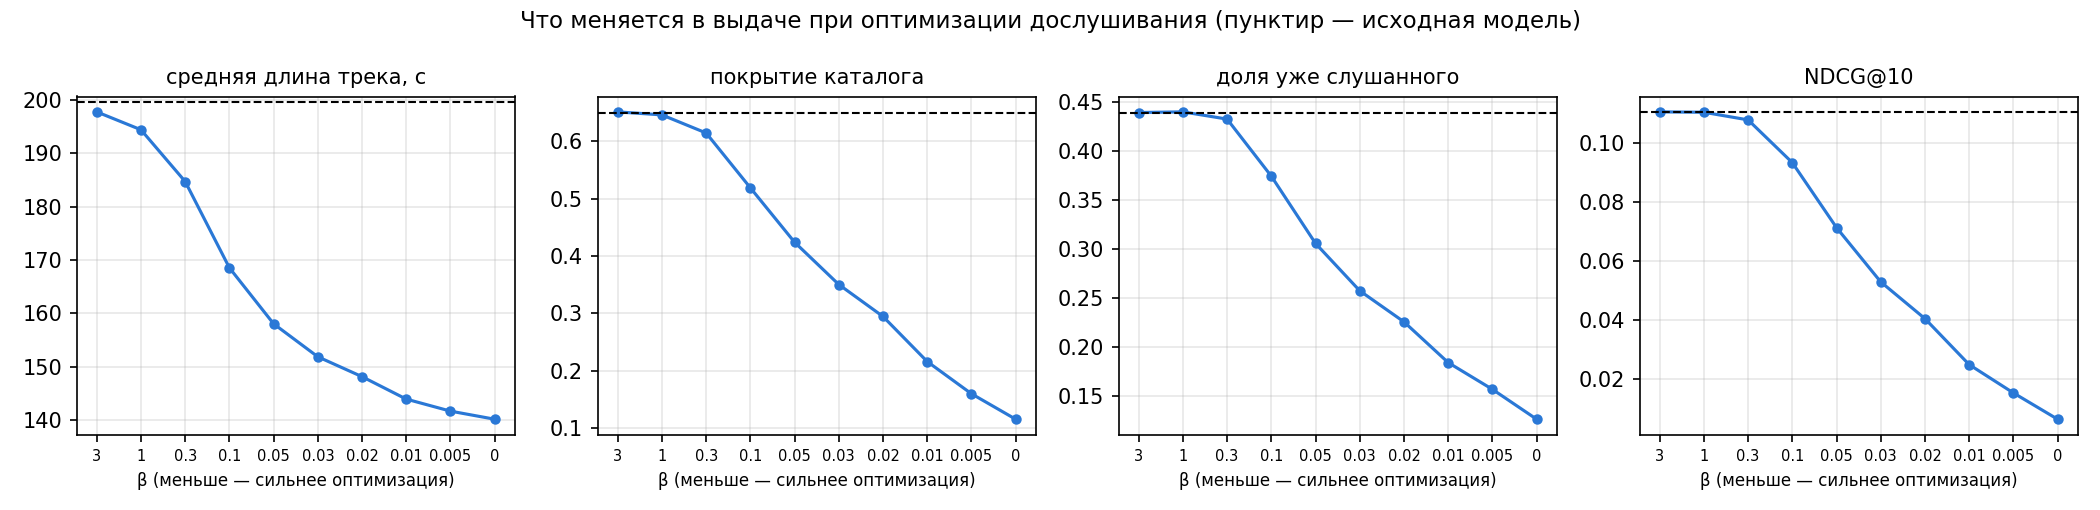
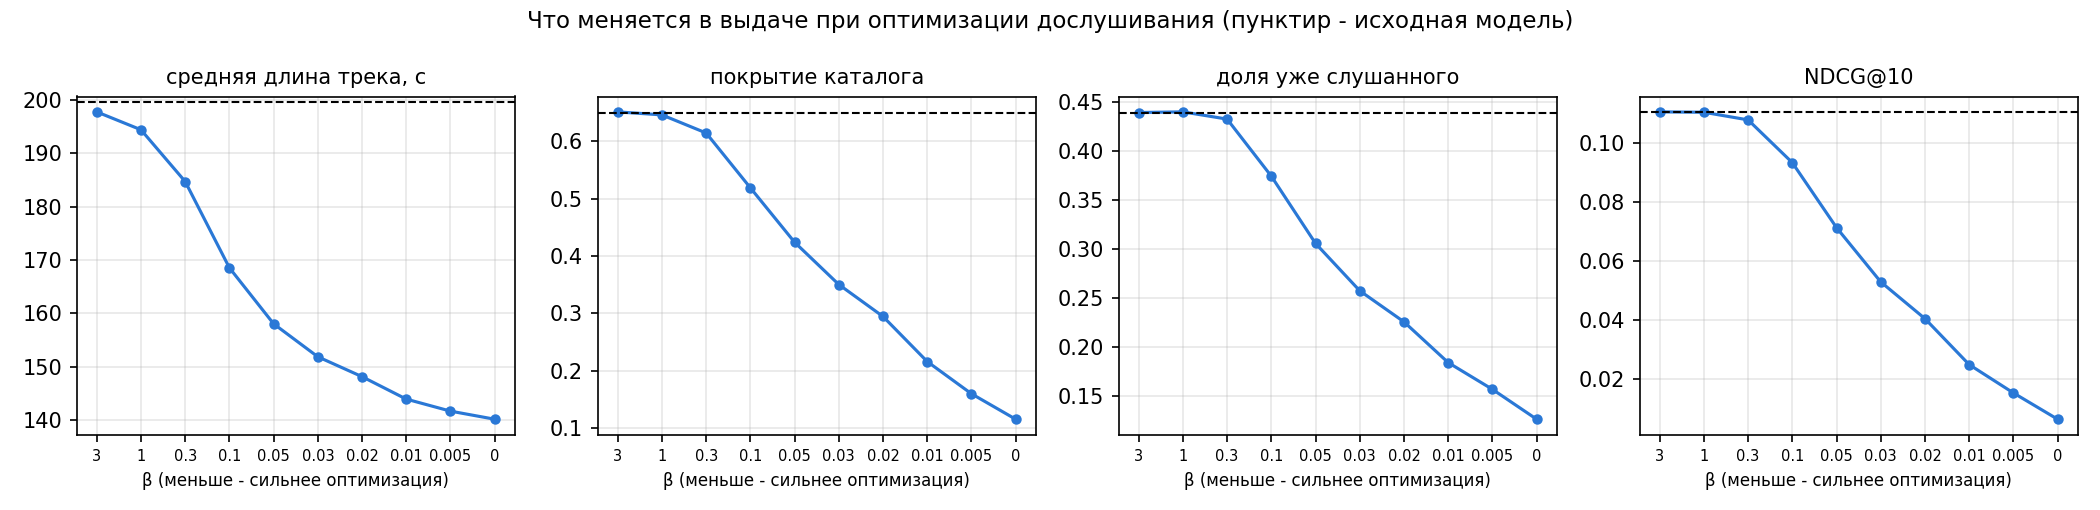
Plain typography in docs, code comments and plot labels

diff --git a/src/analysis.py b/src/analysis.py
@@ -1,13 +1,13 @@
 """Шаг 4: сводный анализ.
 
-1. Аналитический оптимум. Для одного шага задача «max E_π[r] − β·KL(π || π_ref)» решается в
-   закрытом виде: π*(a) ∝ π_ref(a)·exp(r(a)/β). Значит, оптимальную RL-политику можно получить
-   без обучения — переранжировать кандидатов исходной модели по log π_ref + r/β. Берём топ-500 исходной
+1. Аналитический оптимум. Для одного шага задача 'max E_π[r] - β*KL(π || π_ref)' решается в
+   закрытом виде: π*(a) ~ π_ref(a)*exp(r(a)/β). Значит, оптимальную RL-политику можно получить
+   без обучения - переранжировать кандидатов исходной модели по log π_ref + r/β. Берём топ-500 исходной
    модели (за ними почти нулевая вероятность) и проходим по сетке β: получаем полную кривую
-   «релевантность ↔ награда» для каждой функции награды и опорную точку для GRPO.
+   компромисса между релевантностью и наградой для каждой функции награды и опорную точку для GRPO.
 2. Таблица всех RL-прогонов с парными бутстрап-интервалами NDCG@10 к исходной модели.
 3. Проверка на реальных откликах: среди рекомендованных треков, которые юзер реально послушал в
-   следующих 10 прослушиваниях, — реальная доля дослушивания и доля лайков. Это единственная метрика
+   следующих 10 прослушиваниях, - реальная доля дослушивания и доля лайков. Это единственная метрика
    награды, которая не зависит от reward model.
 
     python src/analysis.py
@@ -120,7 +120,7 @@ def plot(analytic_res, rl_rows, base):
         for rw in ["ratio", "ratio_norep"]:
             c = analytic_res[rw]
             ax.plot([r["NDCG@10"] for r in c], [r[f"{judge}: дослушивание"] for r in c], "-o", ms=3,
-                    color=colors[rw], alpha=0.8, label=f"оптимум π_ref·exp(r/β), награда {rw}")
+                    color=colors[rw], alpha=0.8, label=f"оптимум π_ref*exp(r/β), награда {rw}")
         for name, r in rl_rows.items():
             a = r["args"]
             if a["horizon"] != 1 or a["reward"] not in ("ratio", "ratio_norep"):
@@ -139,7 +139,7 @@ def plot(analytic_res, rl_rows, base):
                      else "по независимой reward model B", fontsize=10)
         ax.grid(alpha=0.3)
     axes[0].legend(fontsize=7, loc="lower left")
-    fig.suptitle("Компромисс релевантность ↔ награда «дослушивание»", fontsize=11)
+    fig.suptitle("Компромисс между релевантностью и наградой (награда: дослушивание)", fontsize=11)
     fig.tight_layout()
     fig.savefig(OUT / "tradeoff.png", dpi=150)
     plt.close(fig)
@@ -153,10 +153,10 @@ def plot(analytic_res, rl_rows, base):
         ax.plot(x, [r[key] for r in c], "-o", color=colors["ratio"], ms=4)
         ax.axhline(base[key], color="k", ls="--", lw=1)
         ax.set_xticks(x, [f"{r['beta']:g}" for r in c], fontsize=7)
-        ax.set_xlabel("β (меньше — сильнее оптимизация)", fontsize=8)
+        ax.set_xlabel("β (меньше - сильнее оптимизация)", fontsize=8)
         ax.set_title(title, fontsize=10)
         ax.grid(alpha=0.3)
-    fig.suptitle("Что меняется в выдаче при оптимизации дослушивания (пунктир — исходная модель)", fontsize=11)
+    fig.suptitle("Что меняется в выдаче при оптимизации дослушивания (пунктир - исходная модель)", fontsize=11)
     fig.tight_layout()
     fig.savefig(OUT / "behaviour.png", dpi=150)
     plt.close(fig)
@@ -164,7 +164,7 @@ def plot(analytic_res, rl_rows, base):
     # 3. предсказание reward model против реальности
     fig, axes = plt.subplots(1, 2, figsize=(11, 4))
     for ax, (rw, pkey, rkey, title) in zip(axes, [
-            ("like", "A: лайк", REAL_L, "награда «лайк»"), ("ratio", "A: дослушивание", REAL_R, "награда «дослушивание»")]):
+            ("like", "A: лайк", REAL_L, "награда: лайк"), ("ratio", "A: дослушивание", REAL_R, "награда: дослушивание")]):
         c = [r for r in analytic_res[rw] if r["beta"] is not None and r[REAL_N] > 0.2]
         rel = lambda v, v0: v / v0 - 1
         ax.plot([r["beta"] for r in c], [rel(r[pkey], base[pkey]) * 100 for r in c], "-o", ms=4, color="#2a78d6",
@@ -176,7 +176,7 @@ def plot(analytic_res, rl_rows, base):
         ax.set_xscale("log")
         ax.invert_xaxis()
         ax.axhline(0, color="k", lw=1)
-        ax.set_xlabel("β (вправо — сильнее оптимизация)")
+        ax.set_xlabel("β (вправо - сильнее оптимизация)")
         ax.set_ylabel("изменение к исходной модели, %")
         ax.set_title(title, fontsize=10)
         ax.grid(alpha=0.3)

diff --git a/src/rl_grpo.py b/src/rl_grpo.py
@@ -1,22 +1,22 @@
 """Шаг 3: RL-дообучение GPT-2 методом GRPO с KL-штрафом к исходной модели.
 
 Для каждого контекста (история юзера из train-периода) политика сэмплирует G треков, reward model A
-оценивает каждый, преимущество = (r − среднее по группе) / std по группе, и логарифм вероятности
-трека умножается на это преимущество (как в GRPO, без отдельного критика). Штраф β·KL(π || π_ref)
-считается точно по всему словарю: действие — один трек, распределение известно целиком.
+оценивает каждый, преимущество = (r - среднее по группе) / std по группе, и логарифм вероятности
+трека умножается на это преимущество (как в GRPO, без отдельного критика). Штраф β*KL(π || π_ref)
+считается точно по всему словарю: действие - один трек, распределение известно целиком.
 
 При --horizon H > 1 политика генерирует H треков подряд, каждый раз дописывая сгенерированный трек
 в контекст. Доля дослушивания для дописанного трека в контексте reward model берётся из её же
-предсказания (юзер на самом деле ничего не слушал — это и есть «модельный» rollout).
-Награда последовательности — сумма наград шагов.
+предсказания (юзер на самом деле ничего не слушал - это и есть 'модельный' rollout).
+Награда последовательности - сумма наград шагов.
 
 Варианты награды (--reward):
     ratio        ожидаемая доля дослушивания
-    time         ожидаемое время прослушивания: ratio × длина трека / средняя длина
+    time         ожидаемое время прослушивания: ratio x длина трека / средняя длина
     like         вероятность лайка
-    ratio_like   ratio + 20·like (20 ≈ отношение средних, вклад сопоставимый)
+    ratio_like   ratio + 20*like (20 ~ отношение средних, вклад сопоставимый)
     cont         вероятность, что юзер продолжит слушать (прокси удержания)
-    ratio_norep  ratio − 0.5 за трек, который уже есть в истории юзера
+    ratio_norep  ratio - 0.5 за трек, который уже есть в истории юзера
     ratio_ens    среднее ratio по reward models A и B (ансамбль против эксплуатации ошибок одной модели)
 
     python src/rl_grpo.py --reward ratio --beta 0.05
@@ -93,7 +93,7 @@ def main():
     ap.add_argument("--eval-every", type=int, default=500)
     ap.add_argument("--seed", type=int, default=0)
     ap.add_argument("--adv", choices=["group_std", "fixed"], default="group_std",
-                    help="group_std — как в GRPO: (r − среднее) / std группы; fixed — (r − среднее) / σ0, σ0 = std "
+                    help="group_std - как в GRPO: (r - среднее) / std группы; fixed - (r - среднее) / σ0, σ0 = std "
                          "наград на первом батче (как Dr. GRPO): масштаб не растёт, когда политика сужается")
     ap.add_argument("--tag", default="")
     args = ap.parse_args()
@@ -154,7 +154,7 @@ def main():
             prB = scB(scB.hidden(rtok, rrb, rm_, rpos), a) if args.reward == "ratio_ens" else None
             r = reward_fn(args.reward, prA, a, x, tok_len, mean_len, prB)
         else:
-            # rollout на H шагов: B·G независимых продолжений
+            # rollout на H шагов: B*G независимых продолжений
             rep = lambda t: t.repeat_interleave(G, 0)
             x, m, pp = rep(x), rep(m), rep(pp)
             rtok, rrb, rm_, rpos = rep(rtok), rep(rrb), rep(rm_), rep(rpos)

diff --git a/src/multistep.py b/src/multistep.py
@@ -3,11 +3,11 @@
 Для каждой тестовой точки два режима:
     generated  политика жадно выбирает трек, он дописывается в контекст (как будто юзер его послушал),
                reward model получает предсказанную ею же долю дослушивания;
-    generated_norep  то же, но уже сгенерированные треки запрещены (без «залипания»);
+    generated_norep  то же, но уже сгенерированные треки запрещены (без 'залипания');
     real       в контекст дописывается трек, который юзер реально послушал (teacher forcing).
 На шаге k измеряем: Recall@10 / NDCG@10 для реального k-го следующего трека, предсказанный отклик
-reward models A и B на выбранный трек и их расхождение |A − B|, энтропию политики,
-долю повторов (выбранный трек уже был в контексте) и «залипание» (тот же трек, что на прошлом шаге).
+reward models A и B на выбранный трек и их расхождение |A - B|, энтропию политики,
+долю повторов (выбранный трек уже был в контексте) и 'залипание' (тот же трек, что на прошлом шаге).
 
     python src/multistep.py --models base rl/ratio_b0.05
 """
@@ -34,7 +34,7 @@ def _append(x, a):
 def run(model, S, pos, fut, scA, scB, mode):
     rows, _ = contexts(S, pos)
     stats = {k: np.zeros(STEPS) for k in ["Recall@10", "NDCG@10", "A: дослушивание", "B: дослушивание",
-                                           "|A−B|", "энтропия", "повтор из контекста", "тот же трек, что шаг назад"]}
+                                           "|A-B|", "энтропия", "повтор из контекста", "тот же трек, что шаг назад"]}
     n_ok = np.zeros(STEPS)
     for i in range(0, len(pos), BS):
         p = pos[i:i + BS]
@@ -63,7 +63,7 @@ def run(model, S, pos, fut, scA, scB, mode):
             pb = scB(scB.hidden(*rb), a[:, None])[:, 0]
             stats["A: дослушивание"][k] += pa[:, 0].sum().item()
             stats["B: дослушивание"][k] += pb[:, 0].sum().item()
-            stats["|A−B|"][k] += (pa[:, 0] - pb[:, 0]).abs().sum().item()
+            stats["|A-B|"][k] += (pa[:, 0] - pb[:, 0]).abs().sum().item()
             stats["энтропия"][k] += (-(lp.exp() * lp.nan_to_num(neginf=0)).sum(-1)).sum().item()
             stats["повтор из контекста"][k] += (x == a[:, None]).any(1).float().sum().item()
             stats["тот же трек, что шаг назад"][k] += (a == prev).float().sum().item()

diff --git a/src/train_reward.py b/src/train_reward.py
@@ -1,13 +1,13 @@
 """Шаг 2: reward model и её оценка на отложенных по времени прослушиваниях.
 
-Обучение — только на прослушиваниях до t_valid (те же окна, что у GPT-2). Оценка — на 200 тыс.
+Обучение - только на прослушиваниях до t_valid (те же окна, что у GPT-2). Оценка - на 200 тыс.
 случайных прослушиваний valid и test: для каждого модель видит 200 предыдущих прослушиваний юзера
 (с их долями дослушивания) и предсказывает отклик на реальный трек. Сравнение с эвристиками:
-среднее по всем, по треку, по юзеру и «юзер + трек».
+среднее по всем, по треку, по юзеру и 'юзер + трек'.
 
 Две модели с разной архитектурой и сидом:
-    A — «рабочая», по ней учится RL;
-    B — «независимый судья»: если RL поднимает награду по A, но не по B, политика эксплуатирует ошибки A.
+    A - 'рабочая', по ней учится RL;
+    B - 'независимый судья': если RL поднимает награду по A, но не по B, политика эксплуатирует ошибки A.
 
     python src/train_reward.py --name A
     python src/train_reward.py --name B --d 192 --layers 3 --seed 1
@@ -98,7 +98,7 @@ def baselines(S, pos):
         item = (it_s + 20 * g) / (it_n + 20)
         user = (us_s + 20 * g) / (us_n + 20)
         it = item[S.tok[pos]]
-        it = np.where(S.tok[pos] == 1, g, it)           # вне словаря — общее среднее
+        it = np.where(S.tok[pos] == 1, g, it)           # вне словаря - общее среднее
         out[h] = {"среднее": np.full(len(pos), g), "по треку": it, "по юзеру": user[u],
                   "юзер + трек": np.clip(user[u] + it - g, 1e-4, 1 - 1e-4)}
     return out
@@ -114,7 +114,7 @@ def metrics(S, pos, pred_by_head):
         if h == "ratio":
             full = (t >= 0.9).astype(int)
             res[h] = {"MAE": float(np.abs(p - t).mean()), "RMSE": float(np.sqrt(((p - t) ** 2).mean())),
-                      "Spearman": float(spearmanr(p, t).correlation), "AUC дослушал ≥90%": float(roc_auc_score(full, p))}
+                      "Spearman": float(spearmanr(p, t).correlation), "AUC дослушал >=90%": float(roc_auc_score(full, p))}
         else:
             ll = -np.mean(t * np.log(np.clip(p, 1e-6, 1)) + (1 - t) * np.log(np.clip(1 - p, 1e-6, 1)))
             res[h] = {"AUC": float(roc_auc_score(t, p)), "LogLoss": float(ll), "доля позитивов": float(t.mean())}

diff --git a/src/rm.py b/src/rm.py
@@ -1,14 +1,14 @@
 """Reward model: история юзера (треки + как он их дослушивал) + трек-кандидат -> отклик.
 
-Три головы (все — вероятности):
-    ratio  ожидаемая доля дослушивания кандидата (обучается как BCE с мягкой меткой ratio ∈ [0, 1])
+Три головы (все - вероятности):
+    ratio  ожидаемая доля дослушивания кандидата (обучается как BCE с мягкой меткой ratio in [0, 1])
     like   лайк в течение часа
-    cont   юзер продолжит слушать (следующее прослушивание не позже чем через 30 мин) — сигнал удержания
+    cont   юзер продолжит слушать (следующее прослушивание не позже чем через 30 мин) - сигнал удержания
 
-Кодировщик истории — каузальный GPT-2: позиция t видит события ≤ t и предсказывает отклик на
+Кодировщик истории - каузальный GPT-2: позиция t видит события <= t и предсказывает отклик на
 событие t+1, поэтому одно окно даёт 200 обучающих примеров. Признаки кандидата: свой эмбеддинг,
 длина трека и флаг is_organic. Рекомендации RL-политики оцениваются с is_organic = 0: это ровно
-ситуация «трек включила рекомендательная система».
+ситуация 'трек включила рекомендательная система'.
 """
 import numpy as np
 import torch

diff --git a/src/longterm.py b/src/longterm.py
@@ -1,10 +1,10 @@
 """Офлайн-проверка для долгосрочных целей: связаны ли краткосрочные сигналы сессии с возвращением.
 
-Сессия — прослушивания юзера с перерывами не больше 30 минут. Для каждой сессии считаем
+Сессия - прослушивания юзера с перерывами не больше 30 минут. Для каждой сессии считаем
 краткосрочные сигналы (средняя доля дослушивания, доля лайков, доля треков, включённых
-рекомендательной системой, длина сессии, доля пропусков) и долгосрочный — вернулся ли юзер в течение
-24 часов после конца сессии. Все связи — внутри юзера (из сигналов вычитается среднее по юзеру):
-иначе получим «активные юзеры и дослушивают больше, и возвращаются чаще», что для выбора
+рекомендательной системой, длина сессии, доля пропусков) и долгосрочный - вернулся ли юзер в течение
+24 часов после конца сессии. Все связи - внутри юзера (из сигналов вычитается среднее по юзеру):
+иначе получим 'активные юзеры и дослушивают больше, и возвращаются чаще', что для выбора
 рекомендаций бесполезно.
 
     python src/longterm.py

diff --git a/src/prepare.py b/src/prepare.py
@@ -1,14 +1,14 @@
 """Yambda-50M -> data/listens.npz: все прослушивания по (юзер, время) + метки для reward model.
 
 Для каждого прослушивания:
-    tok     токен трека (ранг популярности в train + 2; 1 — трек вне словаря из 50 тыс.)
+    tok     токен трека (ранг популярности в train + 2; 1 - трек вне словаря из 50 тыс.)
     ratio   доля дослушивания, обрезанная до [0, 1] (played_ratio_pct / 100)
     like    лайк этого трека этим юзером в течение часа после начала прослушивания
     cont    юзер продолжил слушать: следующее прослушивание началось не позже чем через 30 мин
-            (-1 — неизвестно: до конца данных меньше 30 мин)
+            (-1 - неизвестно: до конца данных меньше 30 мин)
     organic юзер нашёл трек сам (1) или его включила рекомендательная система (0)
 
-Время: train — всё до t_valid, valid — 7 дней [t_valid, t_test), test — последние 7 дней.
+Время: train - всё до t_valid, valid - 7 дней [t_valid, t_test), test - последние 7 дней.
 Словарь и длины треков считаются только по train.
 
 Точки оценки: у каждого юзера, активного в valid (test), берём до 3 случайных прослушиваний

diff --git a/src/train_gpt.py b/src/train_gpt.py
@@ -1,8 +1,8 @@
-"""Шаг 1: базовая модель GPT-2 на next item prediction (токены — id треков).
+"""Шаг 1: базовая модель GPT-2 на next item prediction (токены - id треков).
 
-Обучение только на прослушиваниях до t_valid. Окна по 201 токену, лосс — кросс-энтропия по всем
+Обучение только на прослушиваниях до t_valid. Окна по 201 токену, лосс - кросс-энтропия по всем
 позициям, кроме тех, где следующий трек вне словаря. Ранняя остановка по NDCG@10 на valid.
-Для сравнения считаются две эвристики: популярное в train и «самое частое в истории юзера».
+Для сравнения считаются две эвристики: популярное в train и 'самое частое в истории юзера'.
 
     python src/train_gpt.py
 """
@@ -53,7 +53,7 @@ def heuristics(S, split):
     hist = np.zeros((len(pos), 10), np.int64)
     for i, r in enumerate(rows):
         r = r[r >= 2]
-        u, inv = np.unique(r[::-1], return_inverse=True)       # ничьи — в пользу недавних
+        u, inv = np.unique(r[::-1], return_inverse=True)       # ничьи - в пользу недавних
         c = np.bincount(inv)
         first = np.full(len(u), len(r))
         np.minimum.at(first, inv, np.arange(len(r)))

diff --git a/src/lib.py b/src/lib.py
@@ -21,7 +21,7 @@ def _chunk_ce(h, w, y):
 
 def next_item_loss(model, x, m, pos, chunk=2048):
     """Кросс-энтропия next item по всем позициям, где следующий трек в словаре.
-    Логиты [позиции × 50 тыс.] целиком в память не влезают: считаем кусками и пересчитываем
+    Логиты [позиции x 50 тыс.] целиком в память не влезают: считаем кусками и пересчитываем
     на обратном проходе (checkpoint)."""
     h = model.transformer(input_ids=x[:, :-1], attention_mask=m[:, :-1], position_ids=pos[:, :-1]).last_hidden_state
     y = x[:, 1:]
@@ -56,7 +56,7 @@ def contexts(S, pos, L=CTX):
 def last_logits(model, x, m, pos):
     h = model.transformer(input_ids=x.to(DEV), attention_mask=m.to(DEV), position_ids=pos.to(DEV)).last_hidden_state
     lg = model.lm_head(h[:, -1]).float()
-    lg[:, PAD] = lg[:, OOV] = float("-inf")     # не рекомендуем паддинг и «трек вне словаря»
+    lg[:, PAD] = lg[:, OOV] = float("-inf")     # не рекомендуем паддинг и 'трек вне словаря'
     return lg
 
 

diff --git a/src/common.py b/src/common.py
@@ -20,7 +20,7 @@ DEV = "cuda"
 
 
 def limit_gpu_memory():
-    """Лимит видеопамяти на процесс (RECSYS_GPU_GB, по умолчанию 5 ГБ; 0 — без лимита)."""
+    """Лимит видеопамяти на процесс (RECSYS_GPU_GB, по умолчанию 5 ГБ; 0 - без лимита)."""
     gb = float(os.environ.get("RECSYS_GPU_GB", "5"))
     if gb > 0 and torch.cuda.is_available():
         total = torch.cuda.get_device_properties(0).total_memory
@@ -34,7 +34,7 @@ def peak_gb():
 
 
 class Seqs:
-    """Все прослушивания, отсортированные по (юзер, время); user_start[u]..user_start[u+1] — юзер u."""
+    """Все прослушивания, отсортированные по (юзер, время); user_start[u]..user_start[u+1] - юзер u."""
 
     def __init__(self):
         z = np.load(DATA / "listens.npz")
@@ -46,5 +46,5 @@ class Seqs:
 
 
 def ratio_to_bin(r):
-    """r в [0, 1] -> корзина 1..RATIO_BINS (0 — паддинг)."""
+    """r в [0, 1] -> корзина 1..RATIO_BINS (0 - паддинг)."""
     return torch.clamp((r * RATIO_BINS).long(), max=RATIO_BINS - 1) + 1

diff --git a/src/rm_report.py b/src/rm_report.py
@@ -1,9 +1,9 @@
-"""Качество reward models «внутри юзера» — то, что важно для RL.
+"""Качество reward models 'внутри юзера' - то, что важно для RL.
 
 Обычный AUC смешивает два умения: отличать юзеров (кто вообще много лайкает) и отличать треки для
 одного юзера. RL выбирает трек для фиксированного юзера, поэтому ему нужно только второе.
 Внутри-юзерный AUC: AUC по прослушиваниям каждого юзера отдельно, усреднённый по юзерам с обоими
-классами. Эвристика «по юзеру» здесь по определению даёт 0.5. Плюс согласие моделей A и B друг с другом.
+классами. Эвристика 'по юзеру' здесь по определению даёт 0.5. Плюс согласие моделей A и B друг с другом.
 
     python src/rm_report.py
 """
